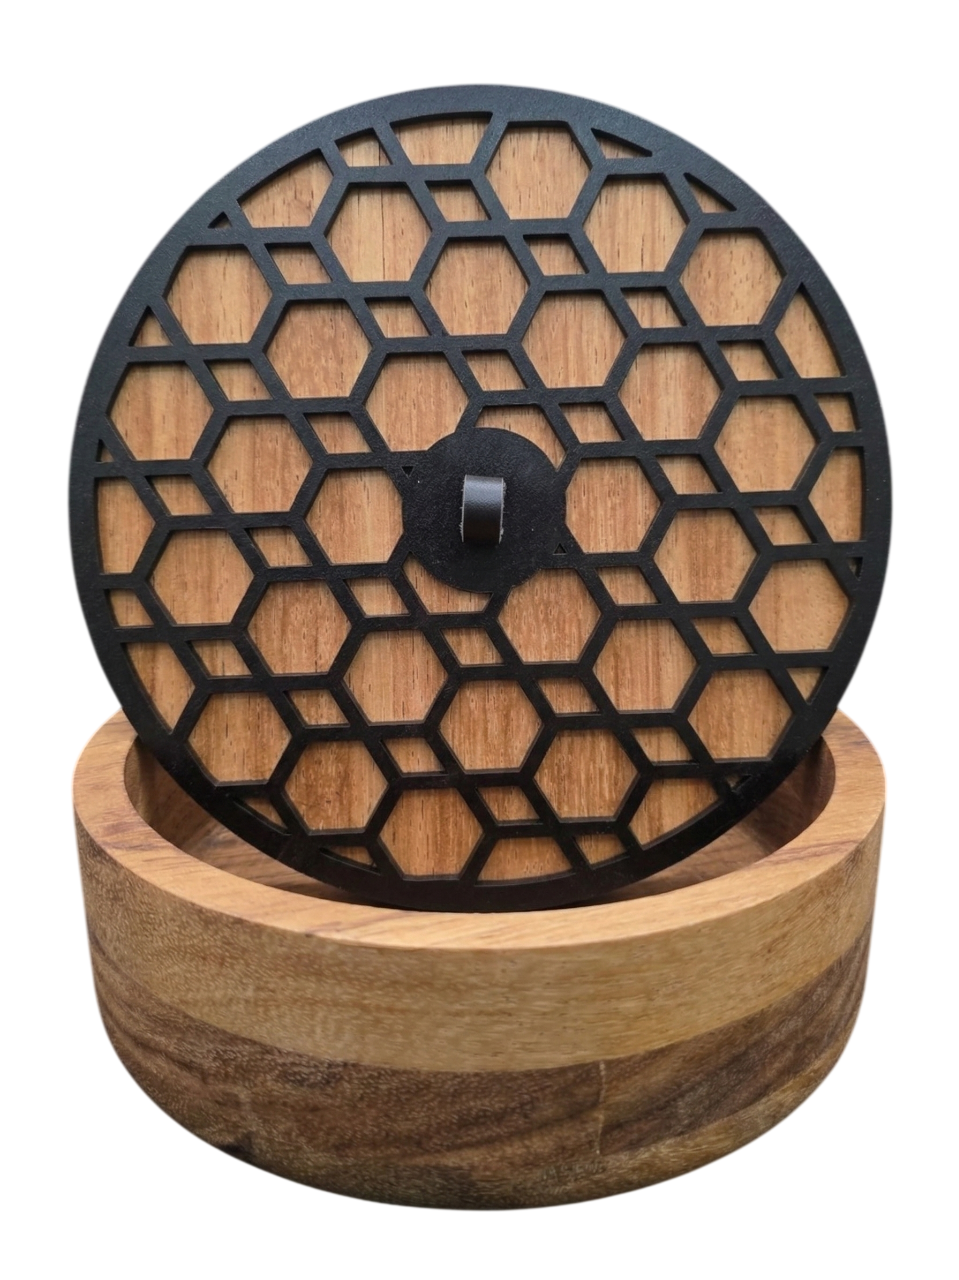
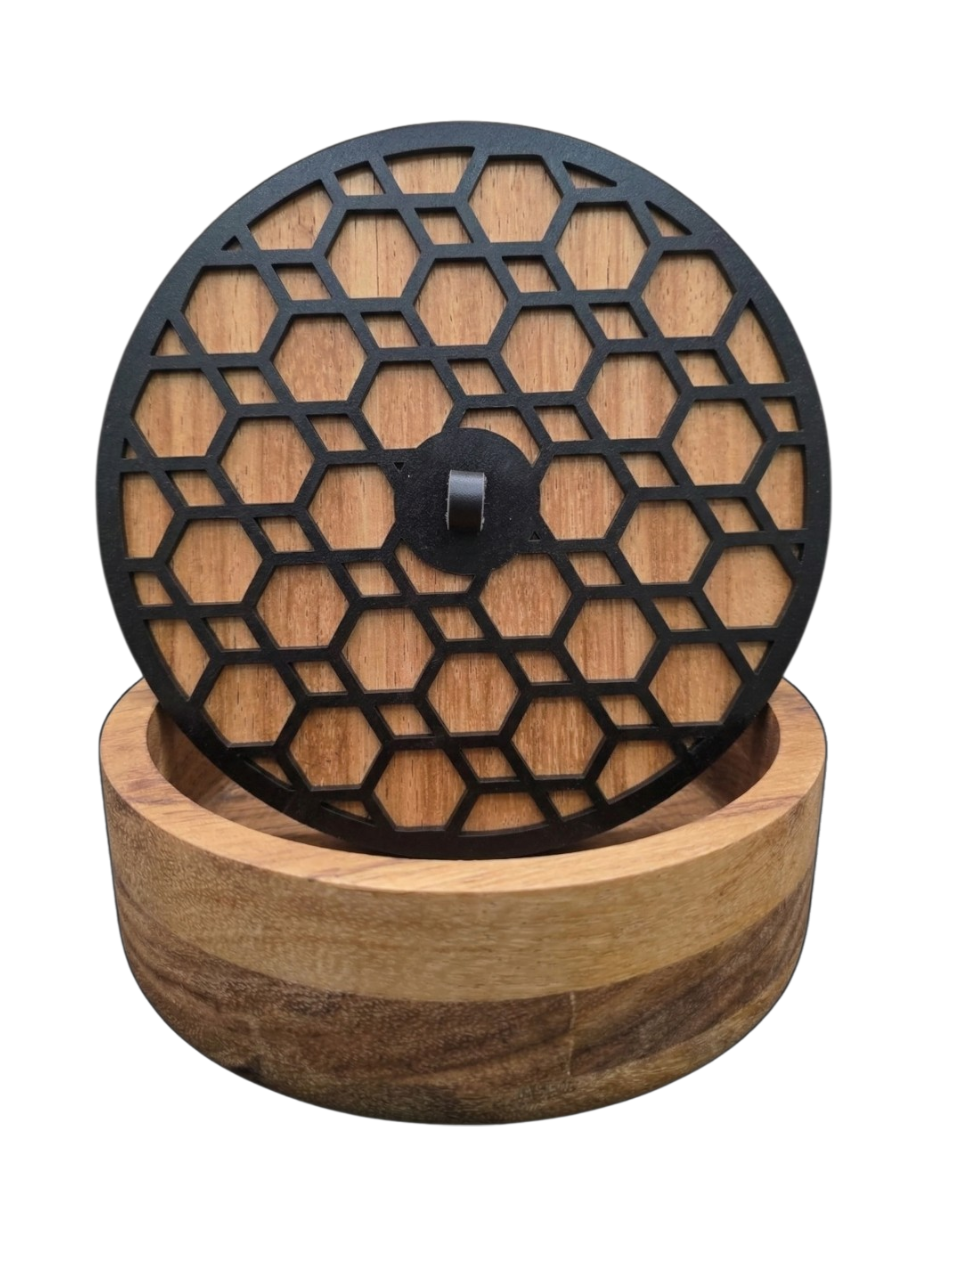
Se modifica pagina de about

diff --git a/pages/public/about.html b/pages/public/about.html
@@ -76,12 +76,12 @@
               NO hay botón de editar aquí — eso es exclusivo del admin.
             -->
             <p class="about-feature__text" >
-                 Colección Panal rinde homenaje a la legendaria técnica de laqueado de Guerrero, México. 
-                Cada pieza es una obra maestra de paciencia y detalle,
-                 elaborada en madera de lináloe, sobre la cual se aplicará una pasta hecha de la mezcla de aceite de Chia y un pigmento mineral llamado Tecostle. 
-                 Para que con una espina de Huizache o pluma de gallina se detallen todos los dibujos que llevan nuestras tapas de tortillero.
-                Cada diseño presentado en esta colección es único . A través de la colección Olinalá encontrarás artesanías que no solo decoran espacios, sino que preservan siglos de historia mexicana. 
+                Nuestra Colección Olinalá rinde homenaje a la legendaria técnica de laqueado de Guerrero, México. 
+                Cada pieza es una obra maestra de paciencia y detalle, elaborada en madera de lináloe cuyo 
+                aroma natural envuelve los sentidos. Decoradas con pigmentos naturales y el tradicional 
+                rayado, estas artesanías no solo decoran espacios, sino que preservan siglos de historia 
                 y cultura ancestral.
+
             </p>  
           </div>
         </div>
@@ -155,7 +155,7 @@
 
         <div class="col-12 col-md-5 about-feature__image-col">
           <img
-            src="../../assets/img/products/Tortillero_Panal_About.jpeg"
+            src="../../assets/img/products/Tortillero_Panal_About.png"
             alt="Artesanía de la Colección Panal"
             class="about-feature__image"
             loading="lazy"
@@ -171,11 +171,11 @@
               NO hay botón de editar aquí — eso es exclusivo del admin.
             -->
             <p class="about-feature__text" >
-                Nuestra Colección Olinalá rinde homenaje a la legendaria técnica de laqueado de Guerrero, México. 
-                Cada pieza es una obra maestra de paciencia y detalle, elaborada en madera de lináloe cuyo 
-                aroma natural envuelve los sentidos. Decoradas con pigmentos naturales y el tradicional 
-                rayado, estas artesanías no solo decoran espacios, sino que preservan siglos de historia 
-                y cultura ancestral.
+                Colección Panal para aquellos amantes del minimalismo y la elegancia sutil. En honor a la artista Ana Abascal, inspirada en la estructura geométrica de los panales de abejas, 
+                esta línea presenta piezas con formas limpias y patrones hexagonales que evocan la armonía de la naturaleza.
+                Cada artículo es una celebración de la simplicidad sofisticada y lo contemporaneo,
+                 perfecta para quienes buscan un toque moderno sin sacrificar la artesanía tradicional.
+
             </p> 
             <p class="about-feature__text" id="about-text"></p>
           </div>
